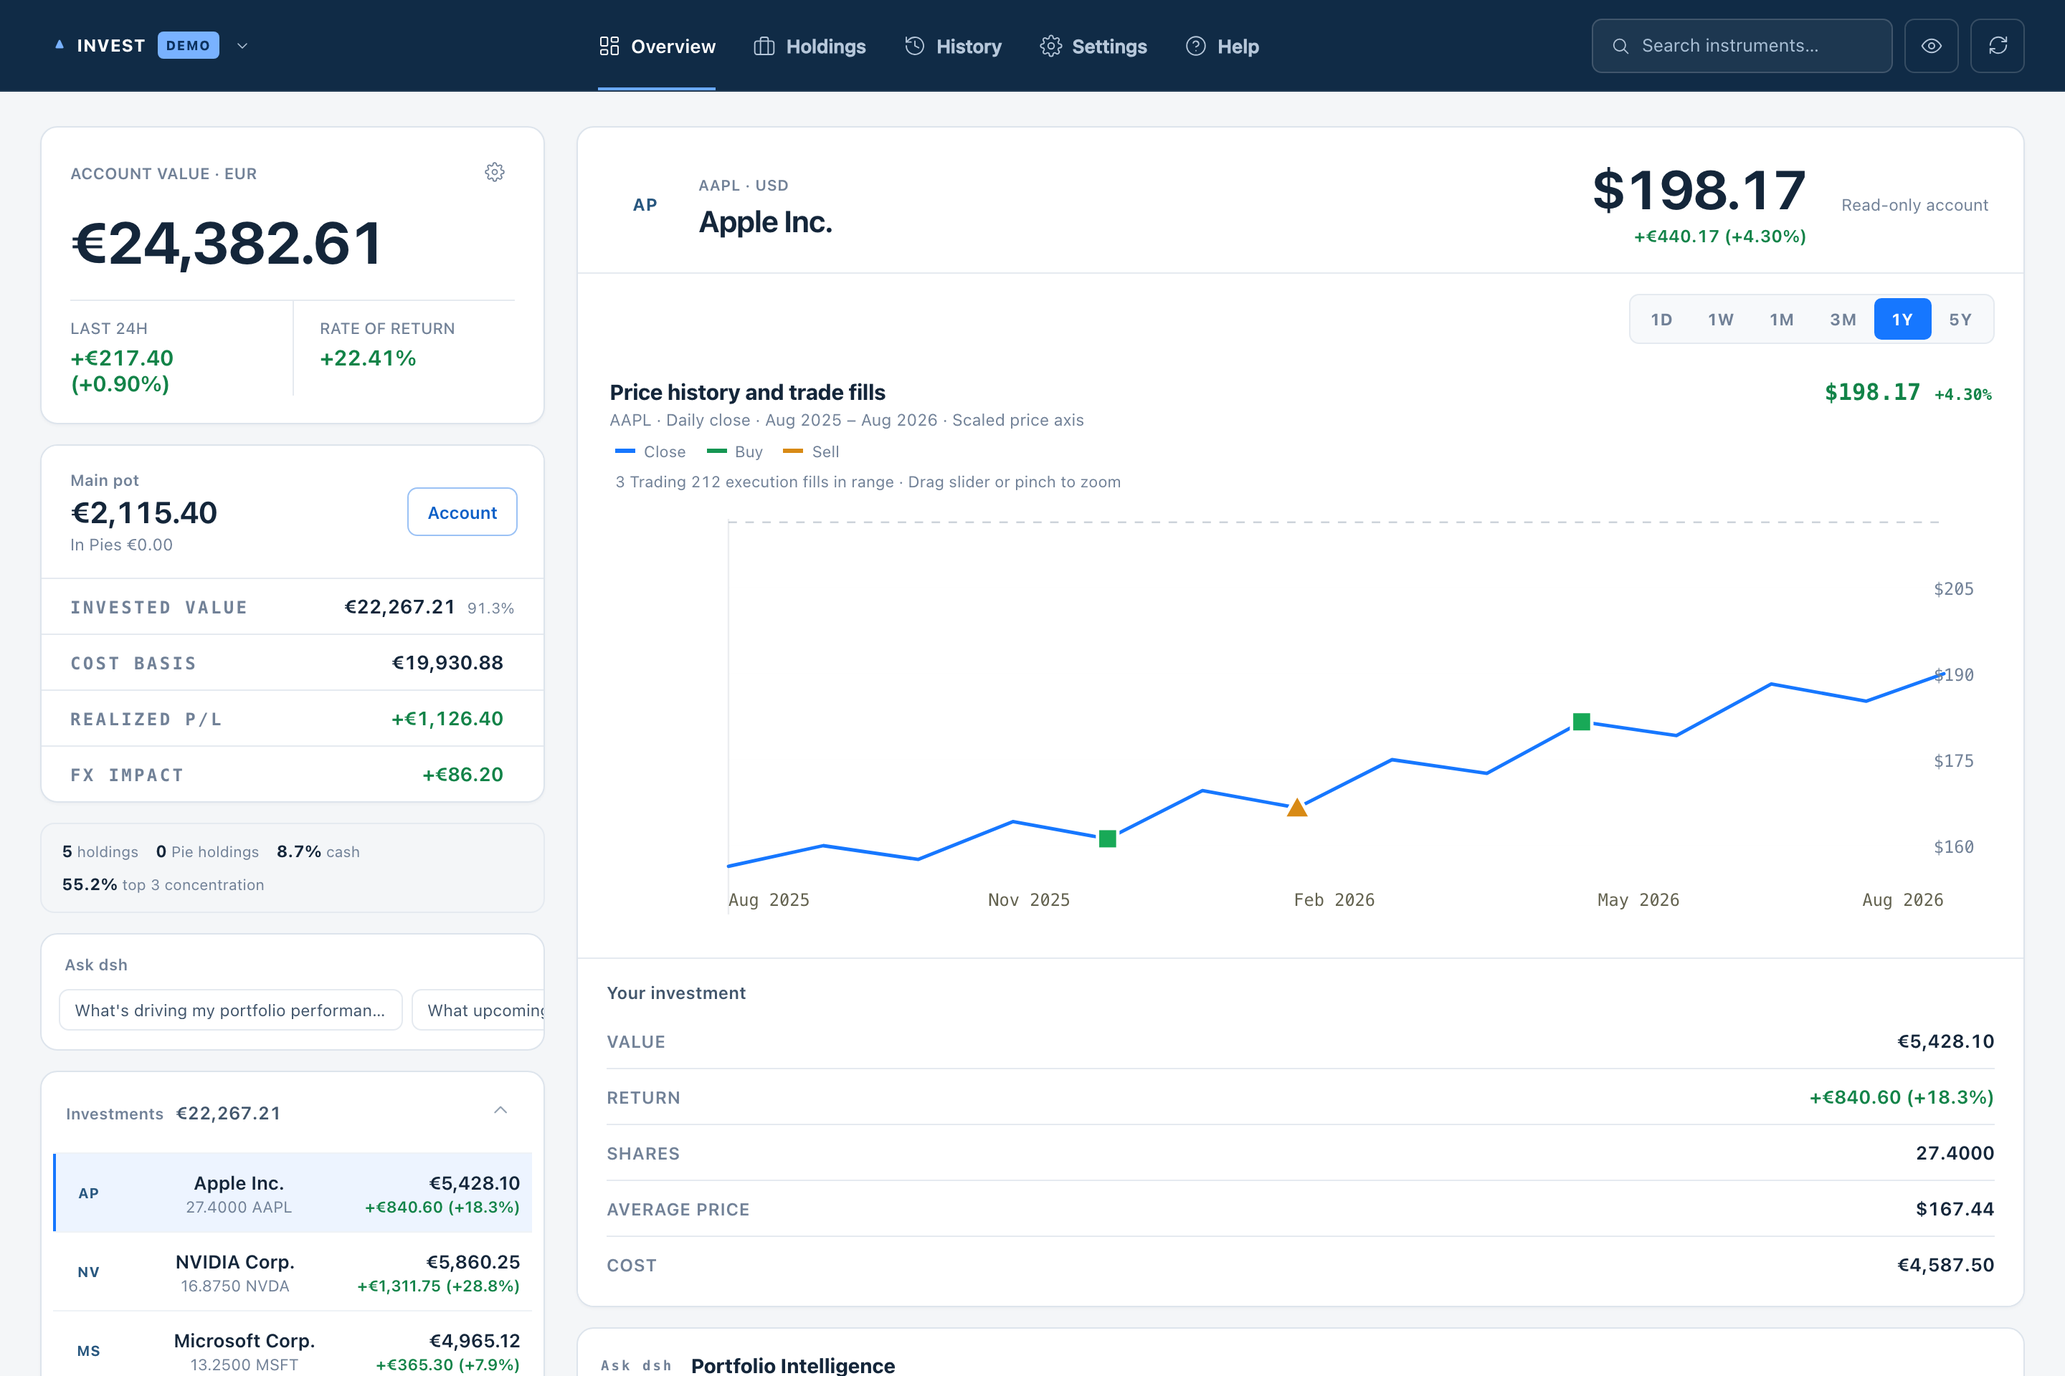
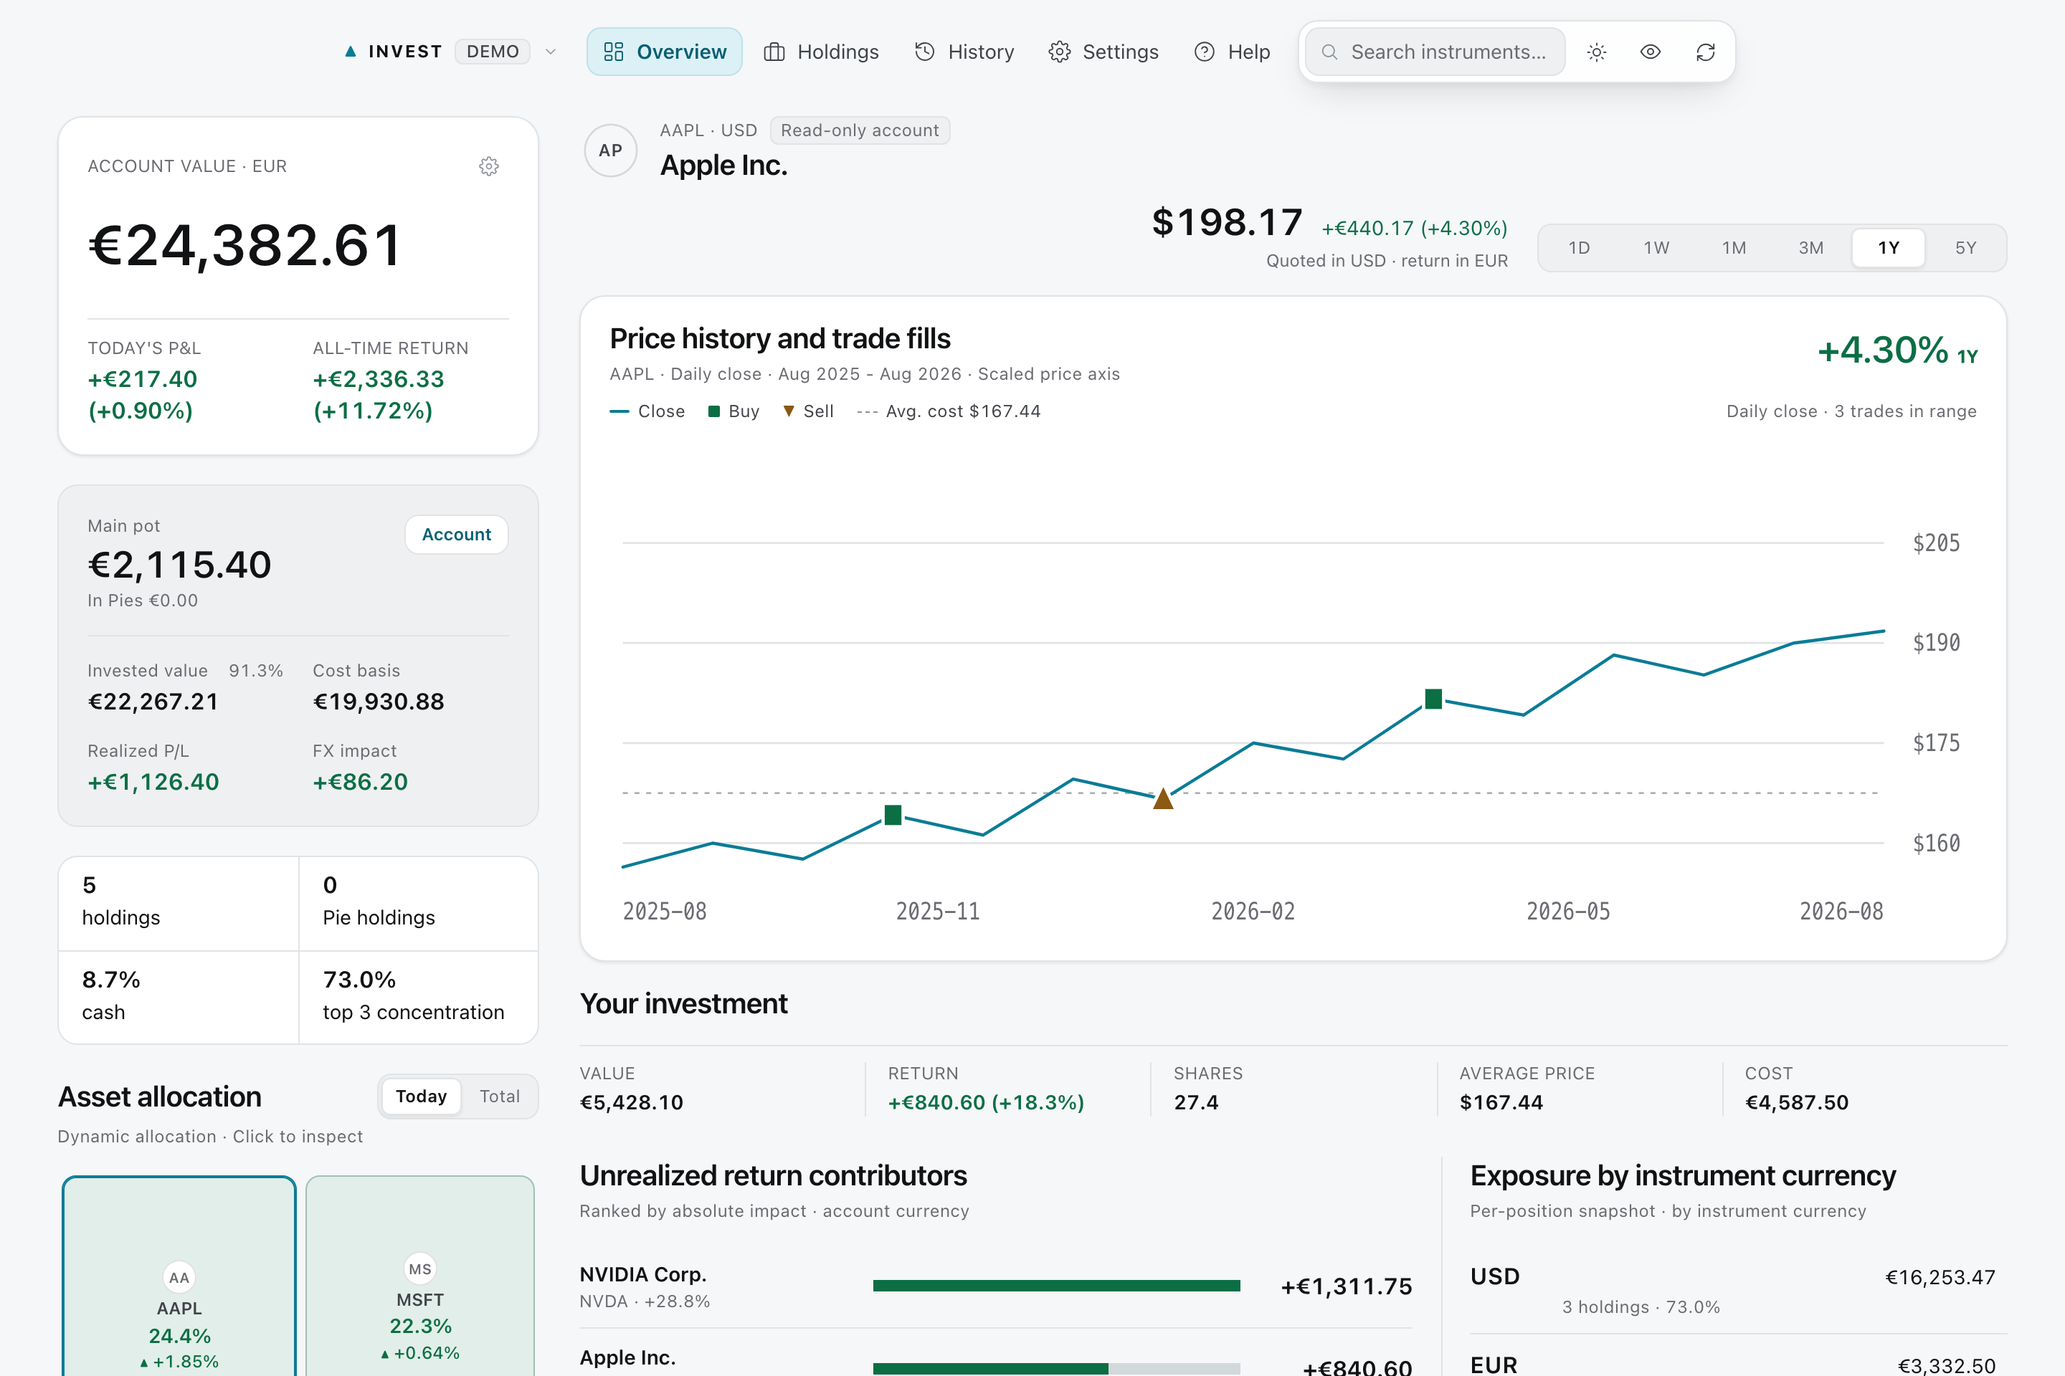
fix(design): keep the instrument header readable and stop ticker ellipsis
Long English price labels and the range switcher were competing for one row
inside the instrument header, crushing the ticker tag to one word per line.
The header is now a wrapping flex row: the identity keeps its line, the price
block wraps under it and stays right-aligned, and the ticker / read-only chips
never break mid-word.

Allocation blocks now shed their ticker before it can ellipsize into a single
letter, and brand tiles carry a hairline ring so a white logo (Alphabet) stays
visible on a light block.

The README keeps one hero screenshot, recaptured from the synthetic demo
preview (DEMO account, not a live instance) and updated for the new palette and
allocation blocks. scripts/capture-screenshots.py takes --url for local design
checks and is documented to use the demo preview for committed images.

diff --git a/preview-redesign-en.html b/preview-redesign-en.html
@@ -596,6 +596,9 @@ fieldset{ border: 0; }
   border-radius: var(--r-pill);
   overflow: hidden;
   background: var(--surface);
+  /* brand tiles are full-bleed squares; without a ring a white logo
+     (Alphabet) disappears on a light allocation block */
+  box-shadow: inset 0 0 0 1px color-mix(in srgb, var(--ink-1) 12%, transparent);
   color: var(--ink-3);
   font-size: 10px; font-weight: var(--fw-semibold); letter-spacing: .02em;
 }
@@ -648,7 +651,10 @@ fieldset{ border: 0; }
   .treemap-tile{ padding: 3px; gap: 0; }
   .tile-logo{ width: 11px; height: 11px; }
 }
-@container (max-width: 40px){
+@container (max-width: 60px){
+  .tile-ticker{ display: none; }
+}
+@container (max-width: 44px){
   .tile-weight-main{ display: none; }
 }
 @container (max-width: 24px){
@@ -701,18 +707,20 @@ fieldset{ border: 0; }
    stack three right-aligned rows (price, delta, tag) above the range control, so
    it had three alignment axes and no row. */
 .cockpit-inst-head{
-  display: grid; grid-template-columns: minmax(min-content, 1fr) auto;
-  align-items: center; column-gap: var(--g-4); row-gap: 0;
+  /* English labels make the price block wide; let it wrap under the
+     identity instead of crushing the ticker to one word per line. */
+  display: flex; flex-wrap: wrap; align-items: center;
+  justify-content: space-between; column-gap: var(--g-4); row-gap: var(--g-2);
 }
-.inst-profile{ grid-column: 1; grid-row: 1; display: flex; align-items: center; column-gap: var(--s-3); }
-.inst-profile > div:not(.ticker-ring-logo){ display: grid; justify-items: start; min-width: min-content; }
+.inst-profile{ grid-column: 1; grid-row: 1; display: flex; align-items: center; column-gap: var(--s-3); flex: 1 1 320px; min-width: 0; }
+.inst-profile > div:not(.ticker-ring-logo){ display: grid; justify-items: start; min-width: 0; }
 .inst-profile .ticker-ring-logo{ width: 44px; height: 44px; }
 .inst-title{ margin-top: 1px; }
 /* Price, delta and the currency note share one block. The first two sit on the
    baseline; the note takes a full row of its own, so it never competes for the
    same line as the number it explains. */
 .inst-price-box{
-  grid-column: 2; grid-row: 1; display: flex; flex-wrap: wrap;
+  grid-column: 2; grid-row: 1; flex: 0 1 auto; min-width: 0; display: flex; flex-wrap: wrap; margin-left: auto;
   align-items: baseline; column-gap: var(--s-3); row-gap: var(--s-1);
   justify-content: flex-end;
 }
@@ -723,6 +731,8 @@ fieldset{ border: 0; }
   letter-spacing: var(--tr-normal); color: var(--ink-3);
 }
 .inst-tag-row{ display: flex; align-items: center; flex-wrap: wrap; column-gap: var(--s-2); row-gap: var(--s-1); }
+.inst-ticker-tag{ white-space: nowrap; }
+.read-only-status{ white-space: nowrap; }
 /* Account state, not instrument data: it sits with the identity, not under the
    price, where a third line made the number block read as one long sentence. */
 .read-only-status{

diff --git a/preview-redesign.html b/preview-redesign.html
@@ -596,6 +596,9 @@ fieldset{ border: 0; }
   border-radius: var(--r-pill);
   overflow: hidden;
   background: var(--surface);
+  /* brand tiles are full-bleed squares; without a ring a white logo
+     (Alphabet) disappears on a light allocation block */
+  box-shadow: inset 0 0 0 1px color-mix(in srgb, var(--ink-1) 12%, transparent);
   color: var(--ink-3);
   font-size: 10px; font-weight: var(--fw-semibold); letter-spacing: .02em;
 }
@@ -648,7 +651,10 @@ fieldset{ border: 0; }
   .treemap-tile{ padding: 3px; gap: 0; }
   .tile-logo{ width: 11px; height: 11px; }
 }
-@container (max-width: 40px){
+@container (max-width: 60px){
+  .tile-ticker{ display: none; }
+}
+@container (max-width: 44px){
   .tile-weight-main{ display: none; }
 }
 @container (max-width: 24px){
@@ -701,18 +707,20 @@ fieldset{ border: 0; }
    stack three right-aligned rows (price, delta, tag) above the range control, so
    it had three alignment axes and no row. */
 .cockpit-inst-head{
-  display: grid; grid-template-columns: minmax(min-content, 1fr) auto;
-  align-items: center; column-gap: var(--g-4); row-gap: 0;
+  /* English labels make the price block wide; let it wrap under the
+     identity instead of crushing the ticker to one word per line. */
+  display: flex; flex-wrap: wrap; align-items: center;
+  justify-content: space-between; column-gap: var(--g-4); row-gap: var(--g-2);
 }
-.inst-profile{ grid-column: 1; grid-row: 1; display: flex; align-items: center; column-gap: var(--s-3); }
-.inst-profile > div:not(.ticker-ring-logo){ display: grid; justify-items: start; min-width: min-content; }
+.inst-profile{ grid-column: 1; grid-row: 1; display: flex; align-items: center; column-gap: var(--s-3); flex: 1 1 320px; min-width: 0; }
+.inst-profile > div:not(.ticker-ring-logo){ display: grid; justify-items: start; min-width: 0; }
 .inst-profile .ticker-ring-logo{ width: 44px; height: 44px; }
 .inst-title{ margin-top: 1px; }
 /* Price, delta and the currency note share one block. The first two sit on the
    baseline; the note takes a full row of its own, so it never competes for the
    same line as the number it explains. */
 .inst-price-box{
-  grid-column: 2; grid-row: 1; display: flex; flex-wrap: wrap;
+  grid-column: 2; grid-row: 1; flex: 0 1 auto; min-width: 0; display: flex; flex-wrap: wrap; margin-left: auto;
   align-items: baseline; column-gap: var(--s-3); row-gap: var(--s-1);
   justify-content: flex-end;
 }
@@ -723,6 +731,8 @@ fieldset{ border: 0; }
   letter-spacing: var(--tr-normal); color: var(--ink-3);
 }
 .inst-tag-row{ display: flex; align-items: center; flex-wrap: wrap; column-gap: var(--s-2); row-gap: var(--s-1); }
+.inst-ticker-tag{ white-space: nowrap; }
+.read-only-status{ white-space: nowrap; }
 /* Account state, not instrument data: it sits with the identity, not under the
    price, where a third line made the number block read as one long sentence. */
 .read-only-status{

diff --git a/src/app/styles.css b/src/app/styles.css
@@ -588,6 +588,9 @@ fieldset{ border: 0; }
   border-radius: var(--r-pill);
   overflow: hidden;
   background: var(--surface);
+  /* brand tiles are full-bleed squares; without a ring a white logo
+     (Alphabet) disappears on a light allocation block */
+  box-shadow: inset 0 0 0 1px color-mix(in srgb, var(--ink-1) 12%, transparent);
   color: var(--ink-3);
   font-size: 10px; font-weight: var(--fw-semibold); letter-spacing: .02em;
 }
@@ -640,7 +643,10 @@ fieldset{ border: 0; }
   .treemap-tile{ padding: 3px; gap: 0; }
   .tile-logo{ width: 11px; height: 11px; }
 }
-@container (max-width: 40px){
+@container (max-width: 60px){
+  .tile-ticker{ display: none; }
+}
+@container (max-width: 44px){
   .tile-weight-main{ display: none; }
 }
 @container (max-width: 24px){
@@ -693,18 +699,20 @@ fieldset{ border: 0; }
    stack three right-aligned rows (price, delta, tag) above the range control, so
    it had three alignment axes and no row. */
 .cockpit-inst-head{
-  display: grid; grid-template-columns: minmax(min-content, 1fr) auto;
-  align-items: center; column-gap: var(--g-4); row-gap: 0;
+  /* English labels make the price block wide; let it wrap under the
+     identity instead of crushing the ticker to one word per line. */
+  display: flex; flex-wrap: wrap; align-items: center;
+  justify-content: space-between; column-gap: var(--g-4); row-gap: var(--g-2);
 }
-.inst-profile{ grid-column: 1; grid-row: 1; display: flex; align-items: center; column-gap: var(--s-3); }
-.inst-profile > div:not(.ticker-ring-logo){ display: grid; justify-items: start; min-width: min-content; }
+.inst-profile{ grid-column: 1; grid-row: 1; display: flex; align-items: center; column-gap: var(--s-3); flex: 1 1 320px; min-width: 0; }
+.inst-profile > div:not(.ticker-ring-logo){ display: grid; justify-items: start; min-width: 0; }
 .inst-profile .ticker-ring-logo{ width: 44px; height: 44px; }
 .inst-title{ margin-top: 1px; }
 /* Price, delta and the currency note share one block. The first two sit on the
    baseline; the note takes a full row of its own, so it never competes for the
    same line as the number it explains. */
 .inst-price-box{
-  grid-column: 2; grid-row: 1; display: flex; flex-wrap: wrap;
+  grid-column: 2; grid-row: 1; flex: 0 1 auto; min-width: 0; display: flex; flex-wrap: wrap; margin-left: auto;
   align-items: baseline; column-gap: var(--s-3); row-gap: var(--s-1);
   justify-content: flex-end;
 }
@@ -715,6 +723,8 @@ fieldset{ border: 0; }
   letter-spacing: var(--tr-normal); color: var(--ink-3);
 }
 .inst-tag-row{ display: flex; align-items: center; flex-wrap: wrap; column-gap: var(--s-2); row-gap: var(--s-1); }
+.inst-ticker-tag{ white-space: nowrap; }
+.read-only-status{ white-space: nowrap; }
 /* Account state, not instrument data: it sits with the identity, not under the
    price, where a third line made the number block read as one long sentence. */
 .read-only-status{

diff --git a/scripts/capture-screenshots.py b/scripts/capture-screenshots.py
@@ -1,65 +1,72 @@
-import os
+"""Capture the README hero screenshot.
+
+Two sources:
+
+- default: the hand-maintained design preview (`preview-redesign-en.html`)
+- live: the running plugin, which is what the README shows:
+
+    python3 scripts/capture-screenshots.py \
+      --url "http://127.0.0.1:60597/trading212/?dshLocale=en"
+
+Live captures need a dsh instance with the plugin mounted and demo credentials
+saved (the T212 tab's own page lives at /trading212/). Captures are 1440 x 960
+at 2x for the desktop shots and 390 x 844 at 2x for mobile.
+"""
+
+import argparse
 import time
 from pathlib import Path
+
 from playwright.sync_api import sync_playwright
 
 root = Path(__file__).resolve().parent.parent
-preview_path = root / "preview-redesign-en.html"
-images_dir = root / "docs" / "images"
+
+parser = argparse.ArgumentParser()
+parser.add_argument("--url", default=f"file://{root / 'preview-redesign-en.html'}")
+parser.add_argument("--out", default=str(root / "docs" / "images"))
+args = parser.parse_args()
+
+url = args.url
+images_dir = Path(args.out)
 images_dir.mkdir(parents=True, exist_ok=True)
 
-url = f"file://{preview_path}"
+
+def settle(page, seconds=1.0):
+    page.wait_for_load_state("networkidle")
+    time.sleep(seconds)
+
+
+def set_theme(page, theme):
+    page.evaluate("(t) => document.documentElement.setAttribute('data-theme', t)", theme)
+    time.sleep(0.4)
+
 
 with sync_playwright() as p:
     browser = p.chromium.launch()
-    
-    # 1. Desktop capture (1440 x 960, 2x DPR)
-    page = browser.new_page(
-        viewport={"width": 1440, "height": 960},
-        device_scale_factor=2,
-    )
-    page.goto(url)
-    page.wait_for_load_state("networkidle")
-    time.sleep(0.5)
-    
-    desktop_output = images_dir / "dashboard-desktop-en.png"
-    page.screenshot(path=str(desktop_output), full_page=False)
-    print(f"Captured desktop screenshot: {desktop_output} ({desktop_output.stat().st_size} bytes)")
 
-    desktop_full_output = images_dir / "dashboard-desktop-full-en.png"
-    page.screenshot(path=str(desktop_full_output), full_page=True)
-    print(f"Captured desktop full screenshot: {desktop_full_output} ({desktop_full_output.stat().st_size} bytes)")
+    # Desktop, light theme: viewport and full page (the README hero).
+    page = browser.new_page(viewport={"width": 1440, "height": 960}, device_scale_factor=2)
+    page.goto(url)
+    settle(page, 3.0)
+    set_theme(page, "light")
+    page.screenshot(path=str(images_dir / "dashboard-desktop-en.png"), full_page=False)
+    page.screenshot(path=str(images_dir / "dashboard-desktop-full-en.png"), full_page=True)
+    print("captured desktop light (viewport + full page)")
     page.close()
 
-    # 2. Privacy mode full capture
-    privacy_page = browser.new_page(
-        viewport={"width": 1440, "height": 1000},
-        device_scale_factor=2,
-    )
-    privacy_page.goto(url)
-    privacy_page.wait_for_load_state("networkidle")
-    privacy_page.click("#eyeBtn")
-    time.sleep(0.3)
-    privacy_output = images_dir / "dashboard-privacy-en.png"
-    privacy_page.screenshot(path=str(privacy_output), full_page=True)
-    print(f"Captured privacy screenshot: {privacy_output} ({privacy_output.stat().st_size} bytes)")
-    privacy_page.close()
-
-    # 3. Mobile capture (390 x 844, 2x DPR)
-    mobile_page = browser.new_page(
+    # Mobile, light theme.
+    mobile = browser.new_page(
         viewport={"width": 390, "height": 844},
         device_scale_factor=2,
         is_mobile=True,
         has_touch=True,
     )
-    mobile_page.goto(url)
-    mobile_page.wait_for_load_state("networkidle")
-    time.sleep(0.5)
-
-    mobile_output = images_dir / "dashboard-mobile-en.png"
-    mobile_page.screenshot(path=str(mobile_output), full_page=False)
-    print(f"Captured mobile screenshot: {mobile_output} ({mobile_output.stat().st_size} bytes)")
-    mobile_page.close()
+    mobile.goto(url)
+    settle(mobile, 3.0)
+    set_theme(mobile, "light")
+    mobile.screenshot(path=str(images_dir / "dashboard-mobile-en.png"), full_page=False)
+    print("captured mobile light")
+    mobile.close()
 
     browser.close()
 

diff --git a/README.md b/README.md
@@ -8,13 +8,14 @@ A read-only Trading 212 portfolio workspace for **dsh**. Configure your API cred
 
 > For personal research and information only. This plugin does not provide investment advice and cannot place, modify, or cancel orders.
 
-![dsh Trading 212 portfolio workspace dashboard with account snapshot, stock price chart with Trading 212 execution fills, asset allocation treemap, and top holdings](https://raw.githubusercontent.com/Kevoyuan/dsh-trading212/main/docs/images/dashboard-desktop-full-en.png)
+![dsh Trading 212 portfolio workspace dashboard: a dark account-value card, a TradingView price chart with execution fills, and asset-allocation blocks that carry a brand mark, ticker and weight](https://raw.githubusercontent.com/Kevoyuan/dsh-trading212/main/docs/images/dashboard-desktop-full-en.png)
 
 *Product interface shown with synthetic demo data. Includes a one-click privacy toggle (eye icon) that completely masks balances, stock values, share quantities, and returns.*
 
 ## Features
 
 - Guided Demo or Live API setup with persistent dsh credential storage
+- Trading 212-native design language: a cool neutral canvas, one cyan accent, weight-first allocation blocks, and first-class light and dark themes
 - Portfolio value, cash, returns, FX impact, concentration, and pending-order overview
 - Responsive desktop and mobile dashboard with overview, holdings, history, settings, and help views
 - One-click privacy masking (eye toggle) to hide all balances, holding values, share quantities, average purchase prices, and returns

diff --git a/README.zh-CN.md b/README.zh-CN.md
@@ -8,13 +8,14 @@
 
 > 仅供个人信息整理与研究参考，不构成投资建议。本插件不会下单、修改或取消订单。
 
-![dsh Trading 212 投资组合仪表盘，包含账户总览、收益走势、买卖成交点、资产配置与持仓列表](https://raw.githubusercontent.com/Kevoyuan/dsh-trading212/main/docs/images/dashboard-desktop-full-en.png)
+![dsh Trading 212 投资组合仪表盘：深色账户总值卡、带成交点的 TradingView 价格走势，以及按权重划分、带品牌标识的资产配置方块](https://raw.githubusercontent.com/Kevoyuan/dsh-trading212/main/docs/images/dashboard-desktop-full-en.png)
 
 *产品界面截图（采用纯虚拟演示数据）。支持右上角一键隐私遮罩（眼睛图标），可对账户总资产、个股持仓市值、持股数量、买入均价及盈亏全面打码。*
 
 ## 能做什么
 
 - 在 dsh 中完成 Demo / Live API 配置；刷新后仍会恢复连接状态
+- 贴近 Trading 212 的视觉语言：中性冷调底色、单一青色强调、以权重为主的资产配置方块，深浅主题都完整适配
 - 一眼查看账户总览、现金、收益、外汇影响、集中度和待处理订单
 - 适配桌面与移动端的 dashboard，包含概览、持仓、历史、设置和帮助
 - 一键隐私模式：点击顶部 👁 眼睛图标即可对账户总价值、可用现金、个股持仓市值、持股数量、买入均价、成本以及盈亏贡献全面打码遮罩（`••••`），保障录屏与投屏时的隐私
